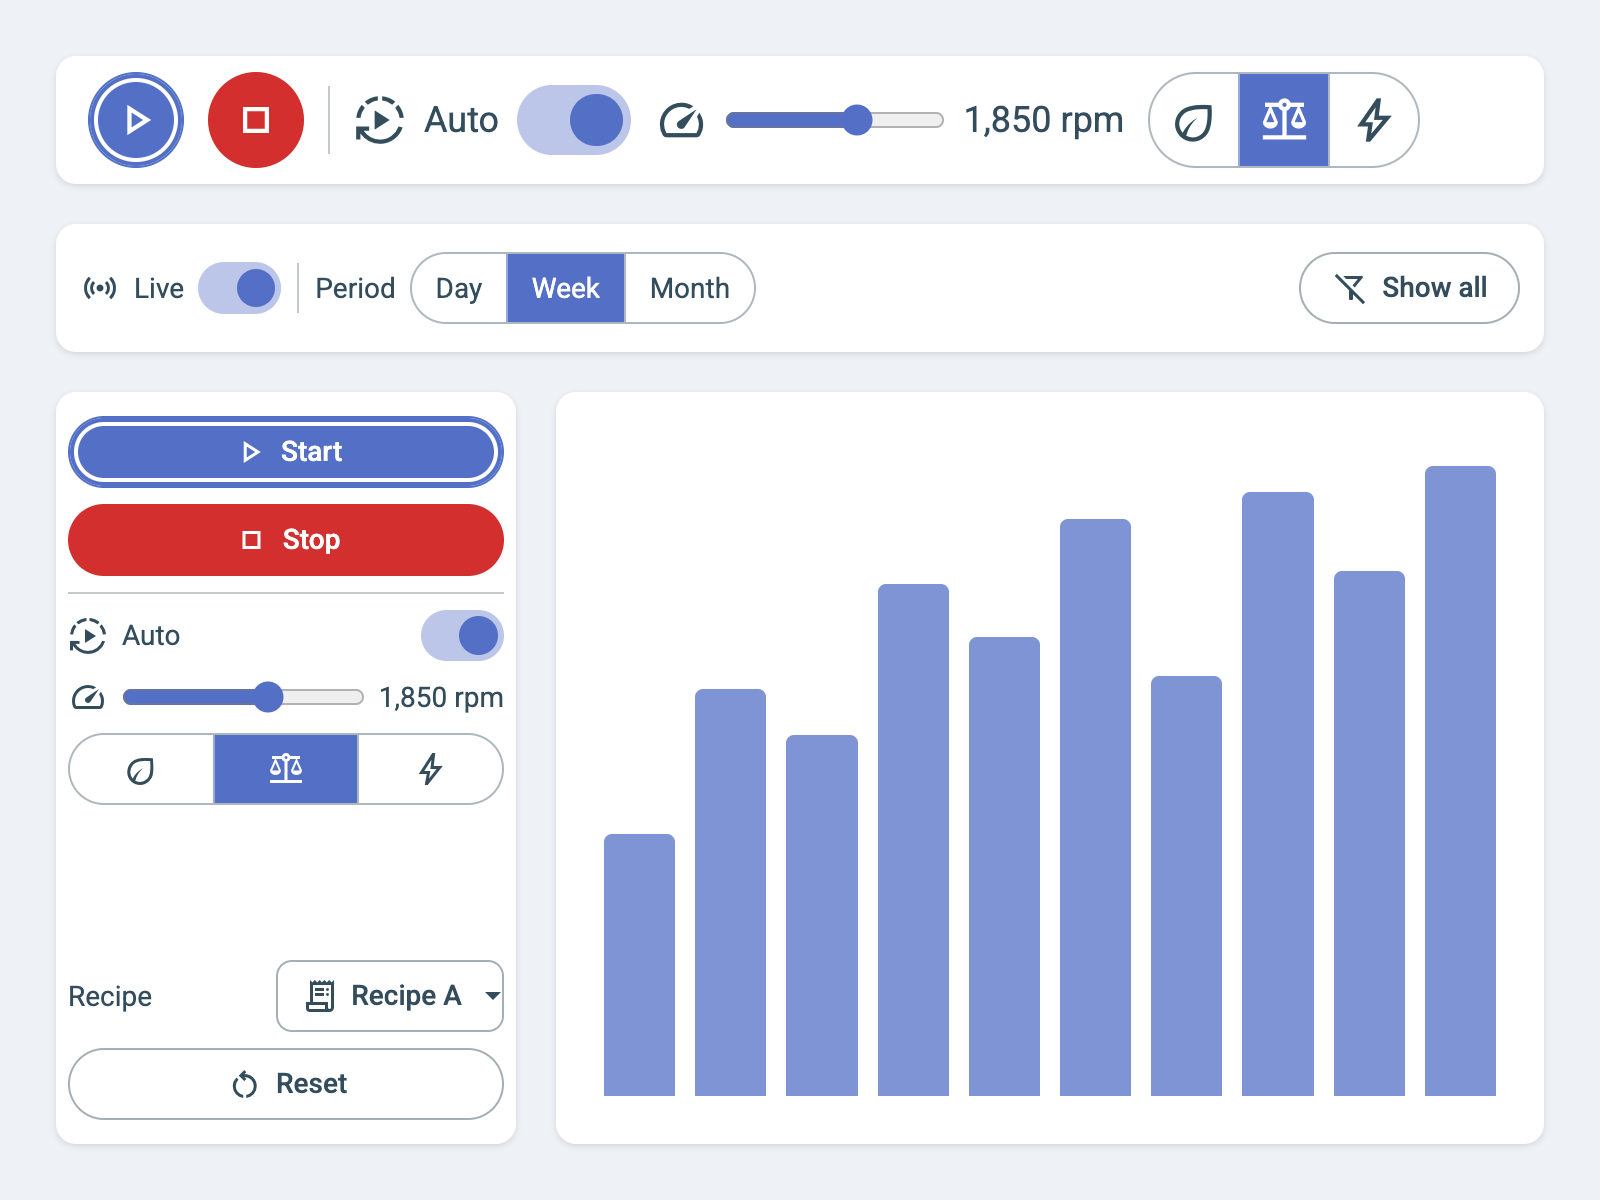
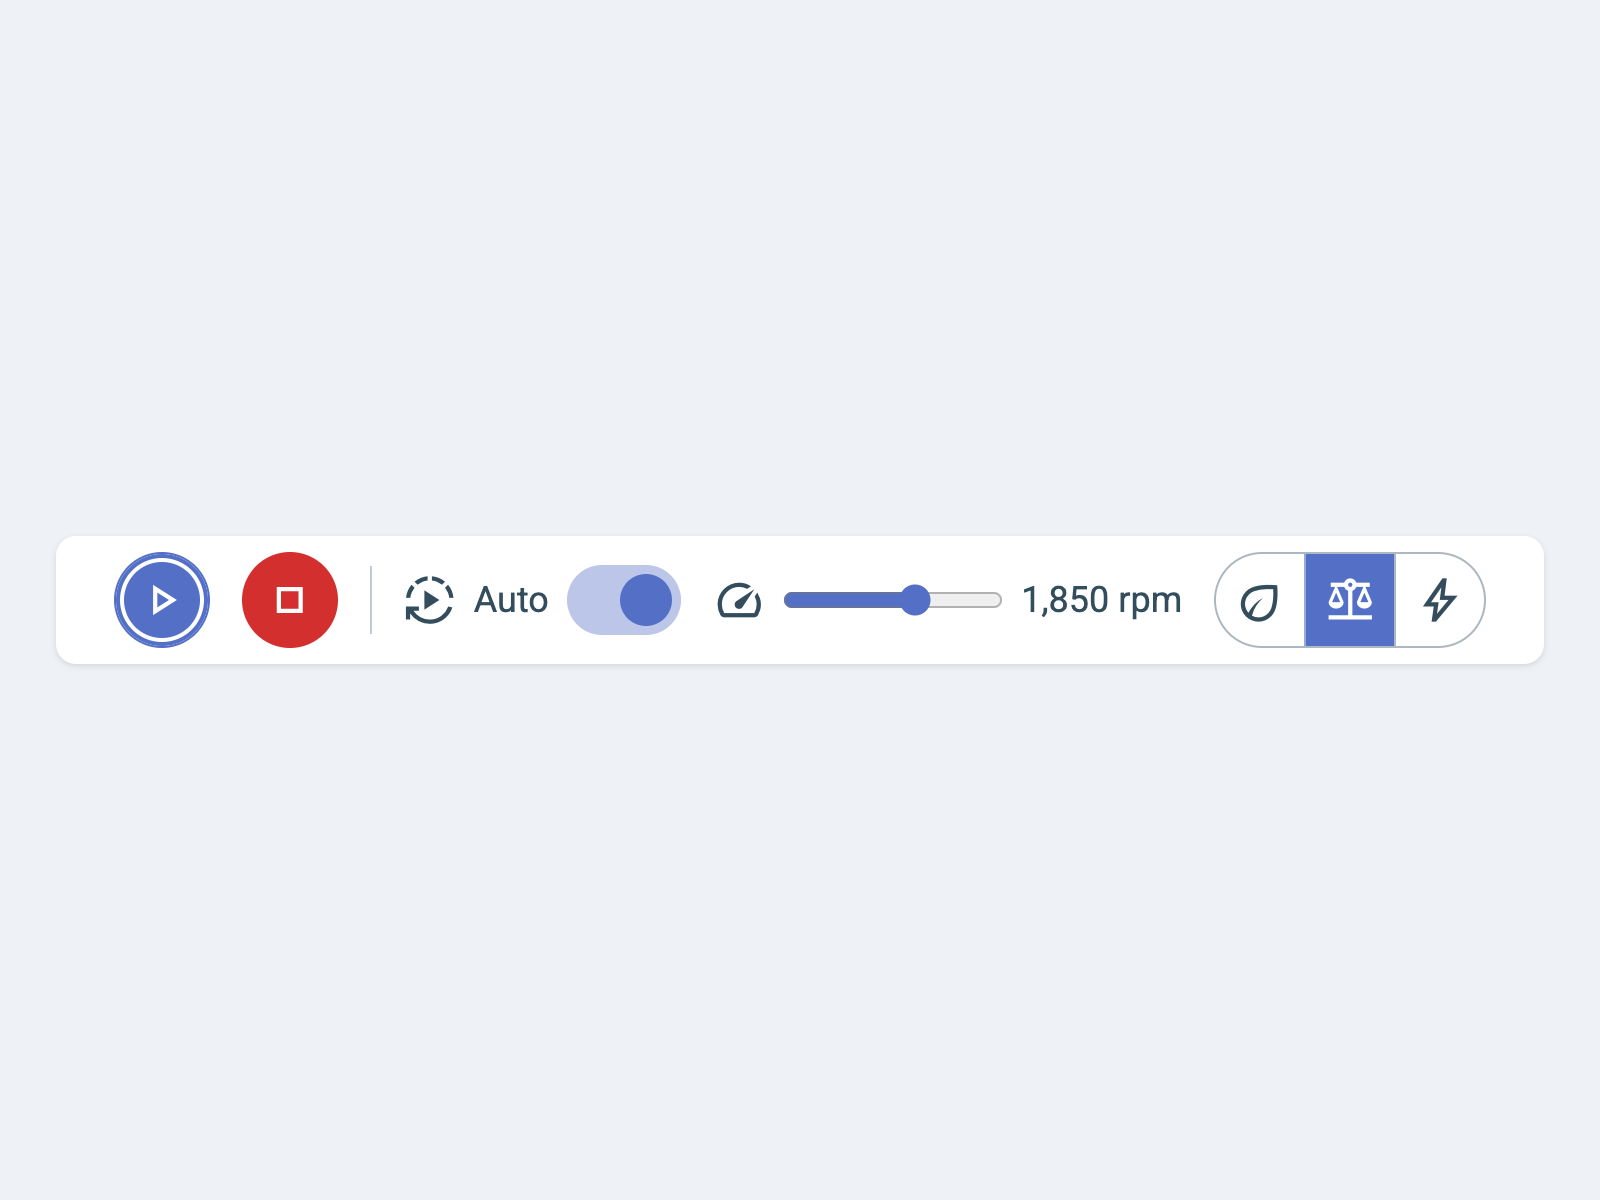
release widget-toolbar 1.0.1 (#1)
Opened by `just release-patch`. Merged automatically once the required
checks pass; the merge publishes the release and sets the tag 1.0.1.

diff --git a/docs/handoff.md b/docs/handoff.md
@@ -45,20 +45,50 @@ uncommitted, on topic branches in the other repositories.
 
 ## Open
 
-1. **First npm publish** (Marko), per
-   `deployments/docs/INTERNAL-widget-platform.md`, "Adding a new widget type",
-   step 2. On the pushed `main` (clean tree, Node 24.20.0, npm ≥ 11.15):
-   `npm login`, then `npm publish --access public` (no commit, no tag). Then
-   `setup-trusted-publishing.sh` without `--bootstrap` for the trust rule, and
-   the IronFlock repository settings (IronFlock/workflows README, "Pull
-   requests from a laptop"). Later versions go through `just release-patch`.
-   1.0.0 has no git tag or GitHub release; the release App creates them from
-   the next release on.
-2. **After the publish**: Studio's lockfiles (`npm install` and `bun install`
-   in studio, npm last), and the ai-plugins catalog rebuild (it reads the
-   package from jsDelivr).
-3. **Platform registration**, prepared uncommitted on topic branches, in the
-   runbook's order: Studio, then the AI service, then platform-db (only once
-   Studio and the AI are live), then the website and ai-plugins.
-4. **Neighbouring widgets**: the converse `notFor` entries, prepared on topic
-   branches, ship with each widget's next release.
+1. **Published**: Marko published 1.0.0 by hand on 2026-11-26; npm and
+   jsDelivr serve it. On 2026-11-27 the GitHub side of the release flow was
+   copied from widget-doughnut: auto-merge, squash merges only with the pull
+   request title and body, branches deleted after merge; the rulesets
+   "main: pull requests with green checks" and "release tags: admins and the
+   release App"; the `release` environment (deployments from `main` only)
+   with the variable `RELEASE_APP_CLIENT_ID`. The ironflock-release App is
+   installed on all repositories. Still open (Marko), before the first
+   `just release-patch`: the environment secret `RELEASE_APP_PRIVATE_KEY`,
+   and `setup-trusted-publishing.sh` without `--bootstrap` for the npm trust
+   rule (2FA). 1.0.0 has no git tag or GitHub release; the release App
+   creates them from the next release on.
+   The next release (1.0.1) carries new thumbnails: the horizontal toolbar
+   alone, centred, instead of the three-tile board scene.
+2. **After the publish**, done and uncommitted:
+   - studio, branch `add-widget-toolbar` (release PR #142): both lockfiles
+     list widget-toolbar 1.0.0; a clean `bun install --frozen-lockfile` and
+     `npm ci` pass. #142's checks failed only because these were missing.
+   - ai-plugins, branch `widget-toolbar-catalog`: the catalog rebuilt with
+     the Toolbar, `tests/boards/toolbar.yml`, a changelog entry.
+3. **Platform registration**, prepared uncommitted on branch
+   `add-widget-toolbar` in each repository, in the runbook's order:
+   - studio: scope table + test, loader import, Actions palette, `package.json`,
+     `tsconfig.json` paths (lockfiles after the publish);
+   - ai: scope table + test, `CONTROL_WIDGETS` and `FILTER_WIDGETS`, a routing
+     row (the Widget Builder prompt hash in `test_dashboard_skills.py` moved
+     with it), the filter-wiring skill;
+   - platform-db, only once Studio and the AI are live: the create line in
+     `install/create_init_data.sql` and `update-2.1.244.sql` (re-check the
+     number against CHECKSUMS before committing);
+   - website: the board-template enum, a Toolbar section in `widgets.mdx` and
+     the Toolbar as a parameter source (and how its tools clear one) in
+     `filters.mdx`, both in all 11 languages,
+     `public/docs/media/widgets/toolbar.webp`;
+   - ai-plugins: the vendored schema, `CATEGORIES`, `KNOWN_WIDGETS`,
+     `widget-index.md`, `board_checks.py` (toolbar parameters count as filter
+     sources; its write targets are checked), a changelog entry. On the same
+     branch, the widgets skill moved from `CLAUDE.md` to `AGENTS.md`: the
+     checker, the template (now with the working agreements and the
+     `.claude/` and `.codex/` plugin settings), `new_widget.py` and the
+     references. Catalog rebuild and a `tests/boards` regression board after
+     the publish.
+4. **Neighbouring widgets**: the converse `notFor` entries, uncommitted on
+   branch `route-to-widget-toolbar` in widget-switch, widget-form,
+   widget-filter-dropdown, widget-navbutton and widget-navbar. Release them
+   only once the toolbar is registered, or the AI routes to a widget it
+   cannot place.
